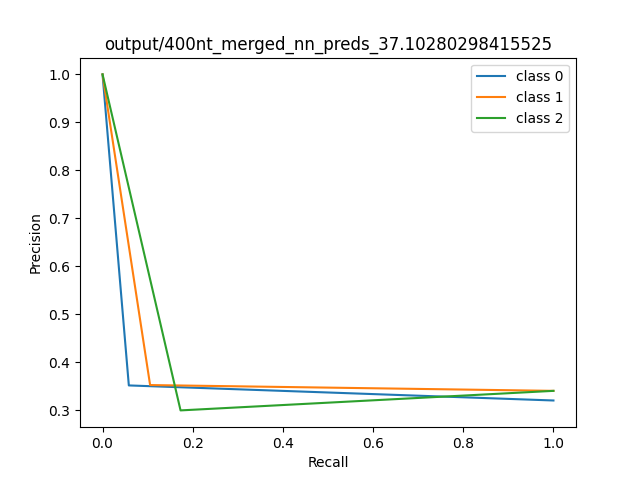
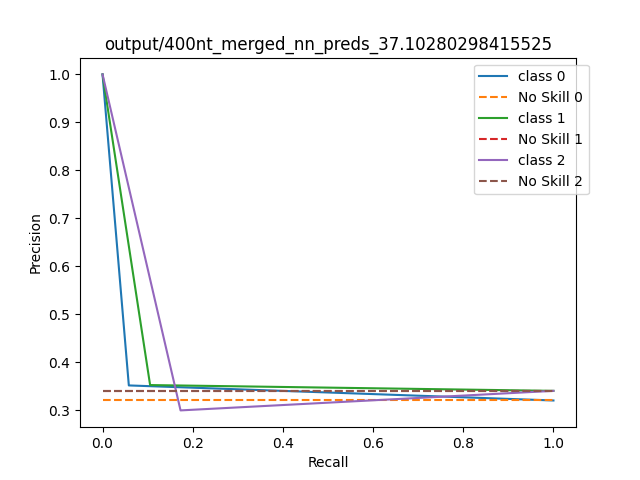
debugging PR curve - softpred matches pred

diff --git a/accuracies.py b/accuracies.py
@@ -86,7 +86,7 @@ def nn_pr_auc(file):
     return accuracy
 
 
-def pr_auc(truefile, probfile):
+def pr_auc(truefile, probfile,predfile):
     """
     PR-AUC is the area under the precision-recall curve.
     truefile = labels of data (Nx1)
@@ -94,7 +94,12 @@ def pr_auc(truefile, probfile):
     """
     classes = [0, 1, 2]
     labels = np.load(truefile, allow_pickle=True)
+    # preds = np.loadtxt(predfile,dtype=int)
     probs = np.loadtxt(probfile,dtype=float)
+    # probpred = np.argmax(probs,1)
+    # print(len(probpred))
+    # print(len(np.where(probpred != preds)[0]))
+    # print(np.where(probpred != preds))
     #convert labels into Nx3 binary matrix
     labels = label_binarize(labels, classes=classes)
     precision = dict()
@@ -102,10 +107,14 @@ def pr_auc(truefile, probfile):
     threshold =dict()
     accuracies = []
     plt.axis()
+    #*** double check softpredictions match predictions - they do!
     for i in range(len(classes)):
-        precision[i], recall[i], threshold[i] = precision_recall_curve(labels[:, i], probs[:, i])
+        temp = labels[:,i]
+        precision[i], recall[i], threshold[i] = precision_recall_curve(temp, probs[:, i])
         accuracies.append(auc(recall[i],precision[i]))
         plt.plot(recall[i],precision[i],label=f"class {i}")
+        no_skill = len(temp[temp==1]) / len(temp) #*** check for bug here?
+        plt.plot([0, 1], [no_skill, no_skill], linestyle='--', label=f'Proportion of positive examples{i}')    
     plt.legend()
     plt.xlabel("Recall")
     plt.ylabel("Precision")
@@ -120,7 +129,6 @@ def pr_auc(truefile, probfile):
     #     f"Num precision for each class is {len(precision[0])}")
 
     return accuracy
-
 
 def nn_top_k_accuracy(file):
     # TODO
@@ -164,6 +172,6 @@ if __name__ == "__main__":
                 predf = "predictions/"+f+"_"+c+"_dev_predictions.csv"
                 predf2 = "predictions/"+f+"_"+c+"_dev_softpredictions.csv"
                 print(f"{predf} simple accuracy={simple_accuracy(truef,predf)}")
-                print(f"{predf2} pr-auc={pr_auc(truef,predf2)}")
+                print(f"{predf2} pr-auc={pr_auc(truef,predf2,predf)}")
     else:
         print("*** no valid model given ***")
